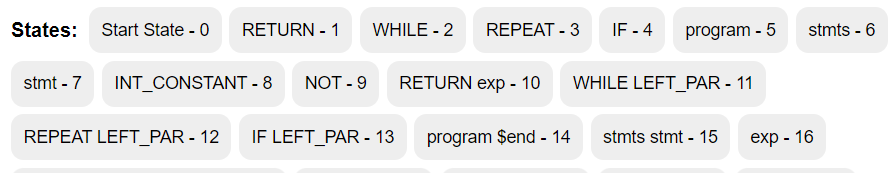
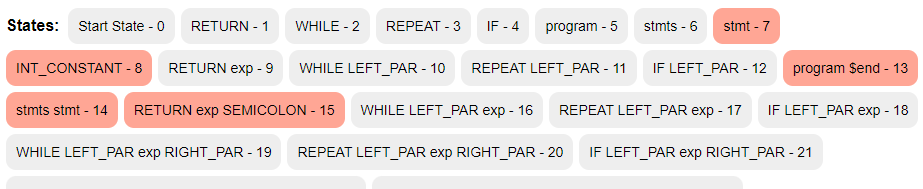
Updated help me understand page and updated images.

diff --git a/index.html b/index.html
@@ -43,7 +43,7 @@
         </label>
 
         <input type="button" hidden/>
-        <label onclick="showUnderstandDialog()" class="btn top_btn" id="understand-btn" for="understand-btn"><i class="fa fa-hourglass-start"></i> Help me understand</label>
+        <label onclick="showUnderstandDialog()" class="btn top_btn" id="understand-btn" for="understand-btn"><i class="fa fa-hourglass-start"></i> Help Me Understand</label>
 
     </div>
 
@@ -103,11 +103,12 @@
                 <img class="longImg" src="assets/img/top_btns.png" alt="..."/>
 
                 <p>
-                    The checkbox for rendering the entire graph allows you to either render the entire graph or not.
+                    You can also create clusters by specifying what token you want to cluster together.
+                    Clicking on the download sample y.output will download a different sample file each time you click it.
                     When checked the entire graph will be displayed when interacting with the buttons and transitions at the bottom.
                     When unchecked, the transition buttons will not recreate the graph, and it will create a graph with their outgoing transitions when a state is selected.
-                    Clicking on the download sample y.output will download a different sample file each time you click it.
                     Clicking on graph, split or grammar will put their respective element in full screen.
+                    The checkbox for rendering the entire graph allows you to either render the entire graph or not.
                     You can also upload you own y.output file so that you may explore the output of syntax analysis from your own compiler.
                 </p>
             </div>
@@ -137,12 +138,15 @@
             <div>
                 <h3> Understanding the graph </h3>
 
-                <img class="floatingImg floatLeft" src="assets/img/legendImg.png" alt="..."/>
+                <img class="floatingImg floatLeft" src="assets/img/legendAndGraphImg.png" alt="..."/>
 
                 <p>
                     A state with a double circle is a start state and that's the origin of the code.
                     As the name suggests from the image, the thinner transition arrow represents regular transitions, while the thicker one represents shift transitions.
                     The state with red color is considered a leaf state, and they are always accompanied by a reduce rule.
+                    The state with white colors are rules that have other types of transitions available to them, whether that be regular, shift or both types of transitions.
+                    When you hover over the state, you will see a tooltip with the current state or if it's a leaf state then you will see the default rule that it uses to reduce on the stack.
+                    When you hover over the transition name or the arrow, you will see the origin and destination state as a tooltip.
                 </p>
             </div>
 
@@ -173,24 +177,39 @@
                 <h3> Credits </h3>
 
                 <p>
-                    This project was a joint effort by Nikith Rachakonda, Sravan Pattabhi, and Akash Magnadia as part of the Visual Data Science class at the University of Illinois at Chicago under the supervision of professor Marai and Graduate TA Carla Floricel.
-                    We would like to thank our client Professor Luís Gabriel Ganchinho de Pina who provided domain expertise to help represent the content of this visualization as accurately as possible.
-                    External Libraries:
+                    This project was a joint effort by Nikith Rachakonda, Sravan Pattabhi, and Akash Magnadia (Project Manager) as part of the Visual Data Science class at the University of Illinois at Chicago under the supervision of professor Marai and Graduate TA Carla Floricel.
+                    We would like to thank our client Professor Luís Gabriel Ganchinho de Pina for providing domain expertise to help represent the content of this visualization as accurately as possible.
+                    External Sources:
                     <a href="https://fonts.google.com/specimen/JetBrains+Mono">Font for the code</a>,
                     <a href="https://fontawesome.com/">Icons</a>,
                     <a href="https://d3js.org/">D3 js</a>,
-                    <a href="https://graphviz.org/">Graph Viz</a>
+                    <a href="https://graphviz.org/">Graph Viz</a>,
+                    <a href="">HTML License</a>,
+                    <a href="">CSS License</a>,
+                    <a href="">Javascript License</a>,
                 </p>
             </div>
 
             <!-- GitHub repo link and YouTube guideline link-->
             <div style="text-align: center;">
                 <a class="linkBtn" href="https://github.com/akashmagnadia/finite_automaton" target="_blank" rel="noopener noreferrer">
-                    <i class="fa fa-github"></i>   GitHub
+                    <i class="fa fa-github"></i> GitHub
                 </a>
 
                 <a class="linkBtn" href="" target="_blank" rel="noopener noreferrer">
-                    <i class="fa fa-youtube-play"></i>   Video walk-through
+                    <i class="fa fa-youtube-play"></i> Video
+                </a>
+
+                <a class="linkBtn" href="https://www.linkedin.com/in/akashmagnadia/" target="_blank" rel="noopener noreferrer">
+                    <i class="fa fa-linkedin-square"></i> Akash Magnadia
+                </a>
+
+                <a class="linkBtn" href="https://www.linkedin.com/in/nikith-rachakonda/" target="_blank" rel="noopener noreferrer">
+                    <i class="fa fa-linkedin-square"></i> Nikith Rachakonda
+                </a>
+
+                <a class="linkBtn" href="https://www.linkedin.com/in/pattabhisravan/" target="_blank" rel="noopener noreferrer">
+                    <i class="fa fa-linkedin-square"></i> Sravan Pattabhi
                 </a>
             </div>
 

diff --git a/README.md b/README.md
@@ -3,7 +3,7 @@
 where you can click the Help Me Understand button to learn about the compiler and how to understand the visualization.
 
 # About This Visualization
-This project was a joint effort by Nikith Rachakonda, Sravan Pattabhi, and Akash Magnadia as part of the Visual Data Science class at the University of Illinois at Chicago under the supervision of professor Marai and Graduate TA Carla Floricel. We would like to thank our client Professor Luís Gabriel Ganchinho de Pina who provided domain expertise to help represent the content of this visualization as accurately as possible.
+This project was a joint effort by Nikith Rachakonda, Sravan Pattabhi, and Akash Magnadia (Project Manager) as part of the Visual Data Science class at the University of Illinois at Chicago under the supervision of professor Marai and Graduate TA Carla Floricel. We would like to thank our client Professor Luís Gabriel Ganchinho de Pina who provided domain expertise to help represent the content of this visualization as accurately as possible.
 <br>
 <br>
 External Libraries:
